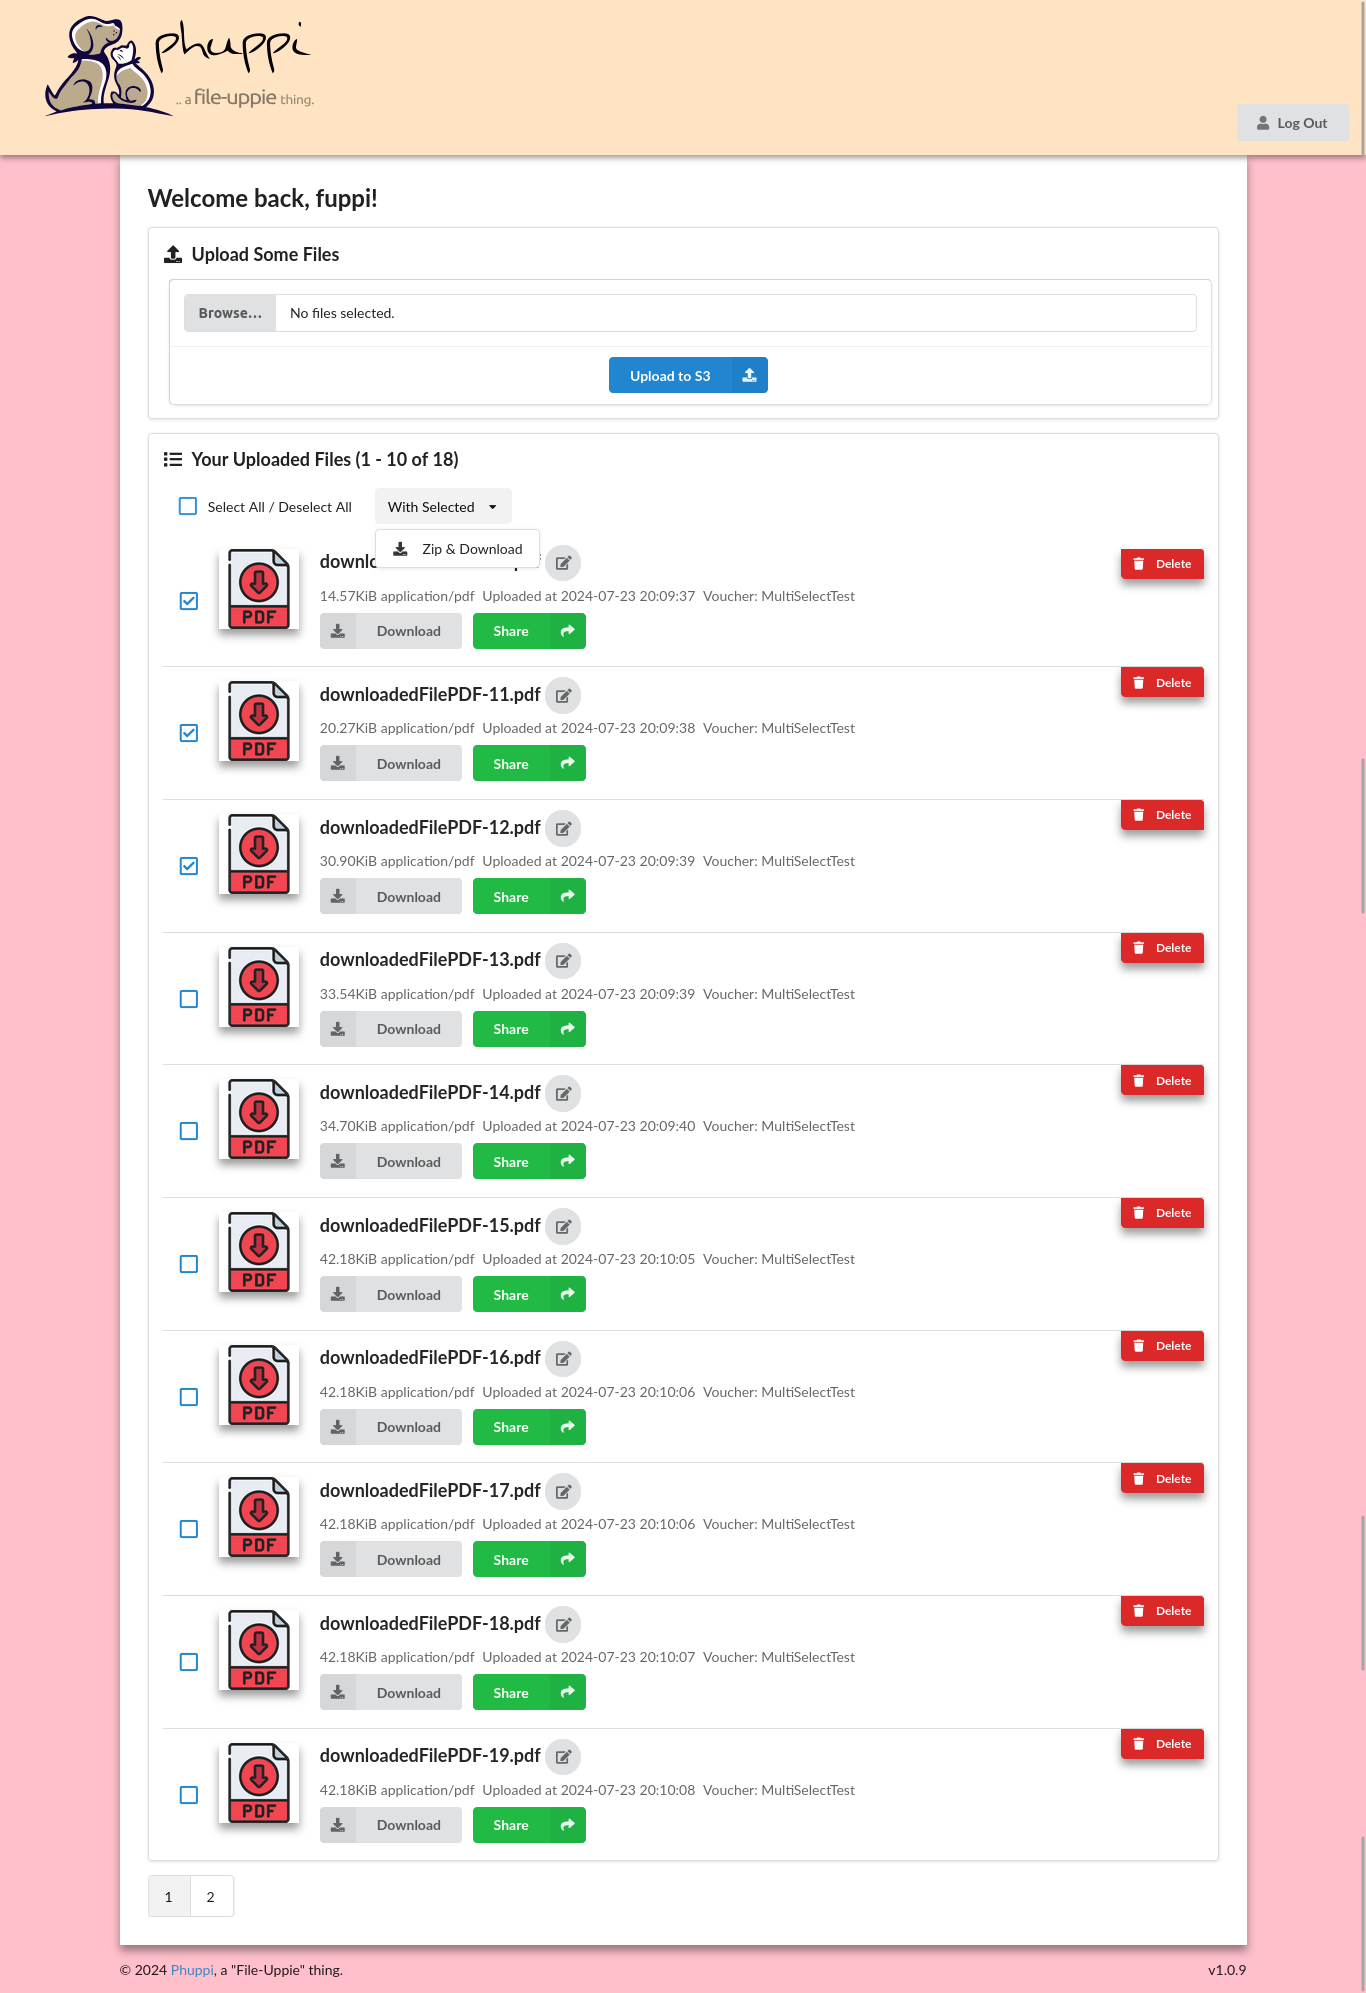
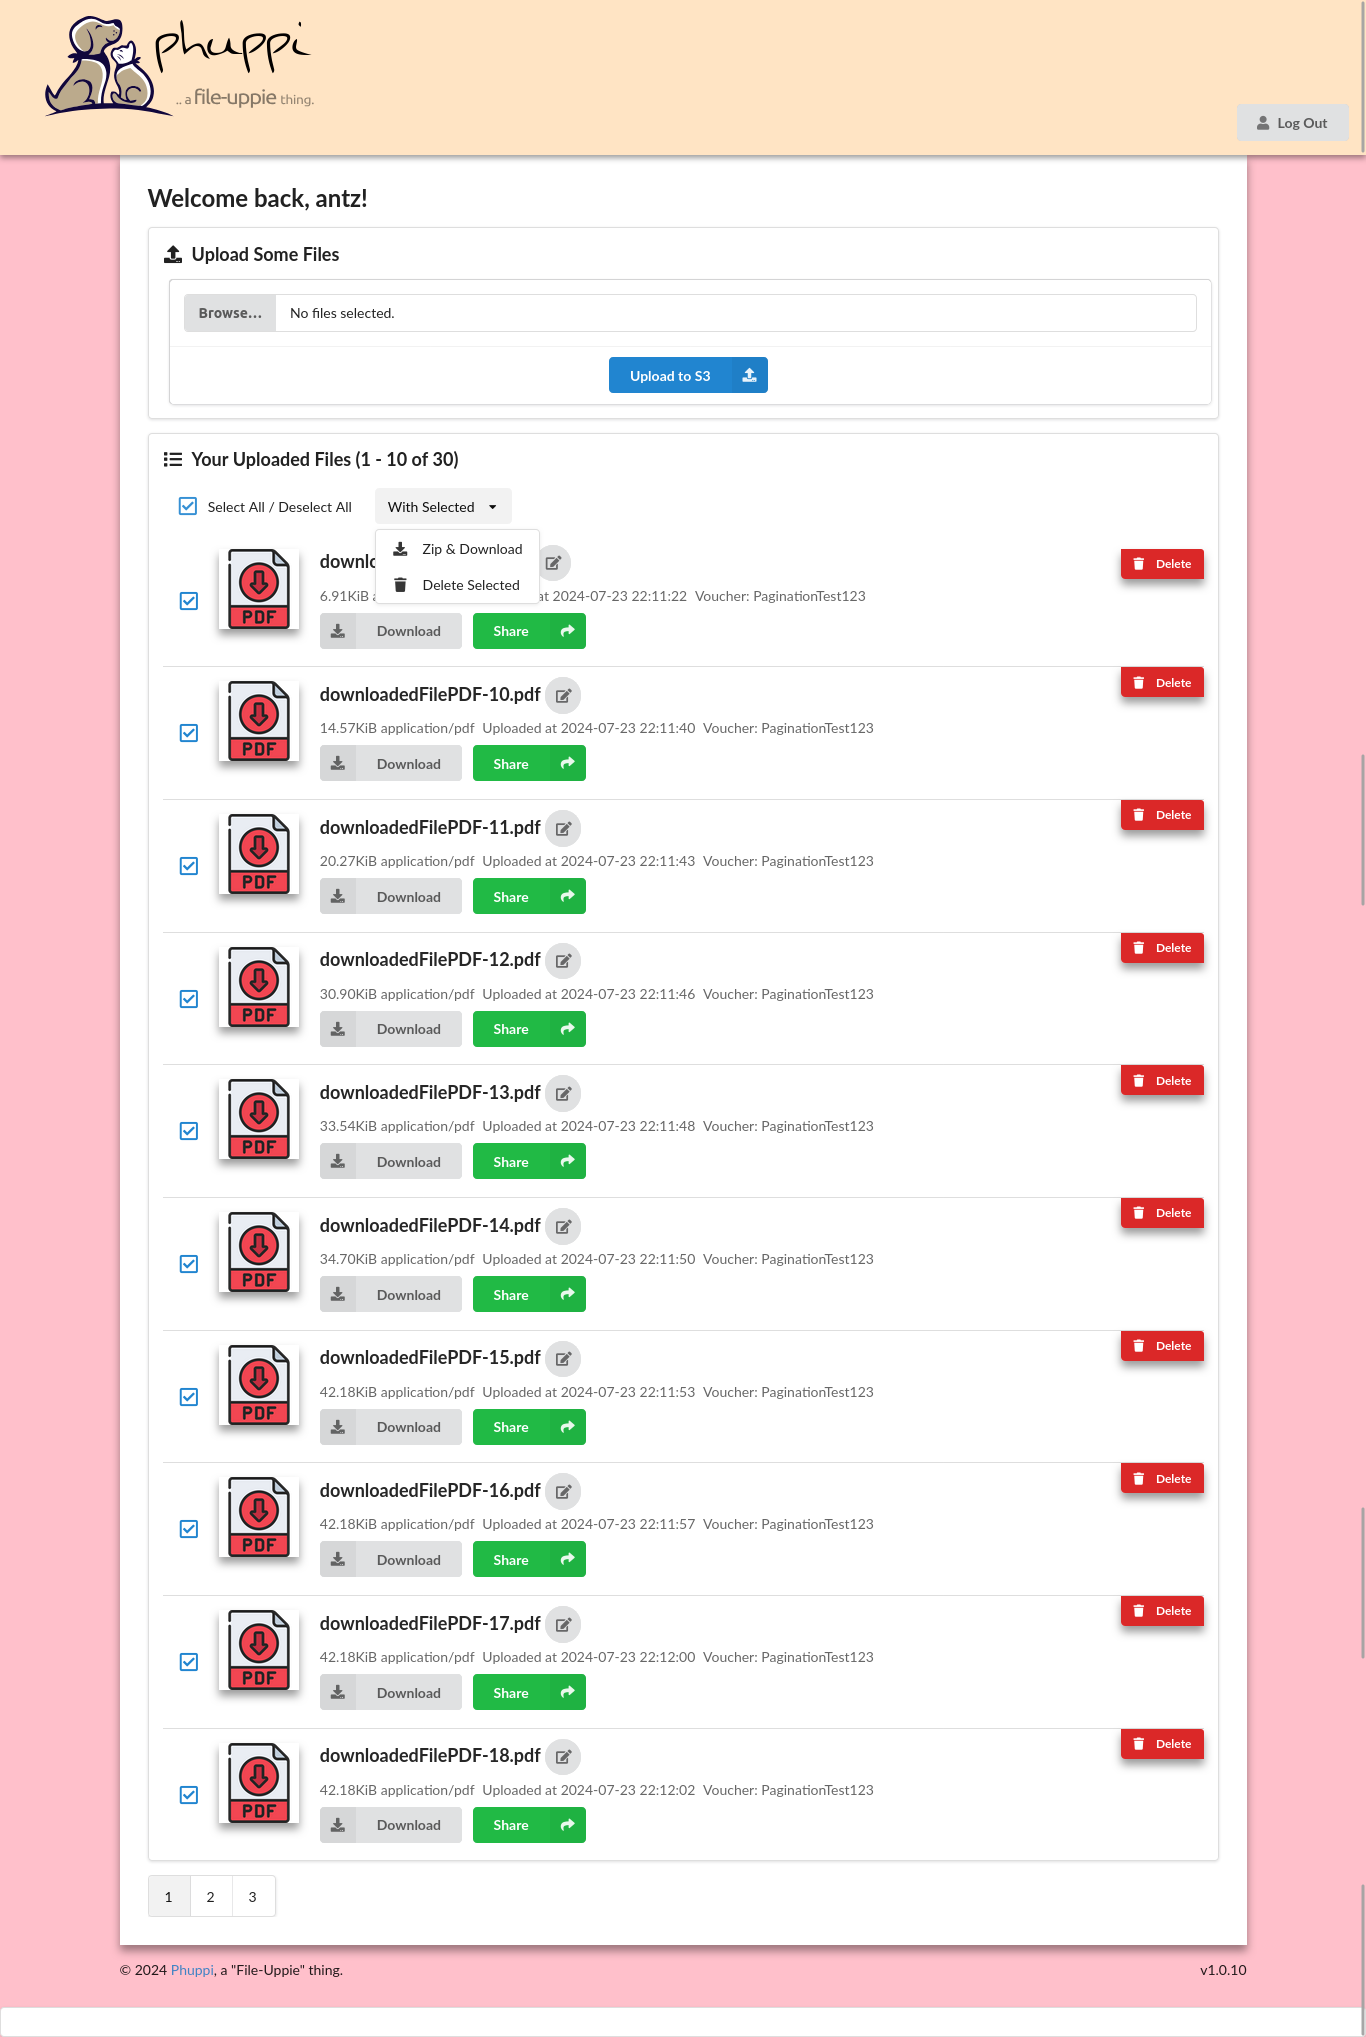
feat: ability to delete multiple files
- add a new mulit-select action to delete the selected files
- show a full-page dimmer and loading icon while the action is being processed

diff --git a/html/assets/js/fuppi.js b/html/assets/js/fuppi.js
@@ -28,34 +28,67 @@ $(() => {
     $('.multi-select-all').click((event) => {
         let container = event.currentTarget;
         let itemSelector = $(container).data('multi-select-item-selector') ?? '.multi-select-item';
-        if($('i', container).hasClass('check')){
+        if ($('i', container).hasClass('check')) {
             $('i', container).removeClass('check');
             $('i', itemSelector).removeClass('check');
-        }else{
+        } else {
             $('i', container).addClass('check');
             $('i', itemSelector).addClass('check');
         }
     });
     $('.multi-select-item').click((event) => {
         let container = event.currentTarget;
-        if($('i', container).hasClass('check')){
+        if ($('i', container).hasClass('check')) {
             $('i', container).removeClass('check');
-        }else{
+        } else {
             $('i', container).addClass('check');
         }
     });
-    $('.multi-select-action').click((event) => {
+    $('.multi-select-action').click(async (event) => {
         let action = event.currentTarget;
         let itemSelector = $(action).data('multi-select-item-selector') ?? '.multi-select-item';
-        switch($(action).data('multi-select-action')){
+        let selectedIds = $(itemSelector).get().filter((item) => $('i', item).hasClass('check')).map((item) => $(item).data('multi-select-item-id'));
+
+        switch ($(action).data('multi-select-action')) {
             case 'download':
-                let downloadIds = $(itemSelector).get().filter((item) => $('i', item).hasClass('check')).map((item) => $(item).data('multi-select-item-id'));
-                window.location = 'file.php?id='+JSON.stringify(downloadIds);
+                $('.ui.page.dimmer').dimmer('show');
+                window.location = 'file.php?id=' + JSON.stringify(selectedIds);
                 setTimeout(() => {
                     $(action).removeClass('active');
                     $(action).removeClass('selected');
                 });
-            break;
+                setTimeout(() => {
+                    $('.ui.page.dimmer').dimmer('hide');
+                }, 3000);
+                break;
+            case 'delete':
+                if (confirm('Are you sure you want to delete the ' + selectedIds.length + ' selected? This action cannot be undone!')) {
+                    $('.ui.page.dimmer').dimmer('show');
+                    
+                    let formData = new FormData();
+                    formData.append('_method', 'delete');
+                    formData.append('_ajax', 1);
+                    formData.append('fileIds', JSON.stringify(selectedIds));
+
+                    setTimeout(() => {
+                        $(action).removeClass('active');
+                        $(action).removeClass('selected');
+                    });
+                    
+                    await axios.post($(action).data('multi-select-action-url'), formData)
+                        .then(async (response) => {
+                            $('.ui.page.dimmer').dimmer('hide');
+                            switch ($(action).data('multi-select-action-callback')) {
+                                case 'refresh':
+                                    window.location = window.location;
+                                    break;
+                            }
+                        }).catch((error) => {
+                            $('.ui.page.dimmer').dimmer('hide');
+                            alert(error);
+                        });
+                }
+                break;
         }
     });
 });

diff --git a/html/index.php b/html/index.php
@@ -29,31 +29,68 @@ if (!empty($_GET['userId'])) {
 if (!empty($_POST)) {
     switch ($_POST['_method'] ?? 'post') {
         case 'delete':
-            if ($user->hasPermission(UserPermission::UPLOADEDFILES_DELETE)) {
-                $fileId = $_POST['fileId'] ?? 0;
-                $uploadedFile = UploadedFile::getOne($fileId);
-                $fileUser = $uploadedFile->getUser();
-                UploadedFile::deleteOne($fileId);
-                if (file_exists($config->uploaded_files_path . DIRECTORY_SEPARATOR . $fileUser->username . DIRECTORY_SEPARATOR . $uploadedFile->filename)) {
-                    unlink($config->uploaded_files_path . DIRECTORY_SEPARATOR . $fileUser->username . DIRECTORY_SEPARATOR . $uploadedFile->filename);
-                }
-                $sdk = new Aws\Sdk([
-                    'region' => $config->getSetting('aws_s3_region'),
-                    'credentials' =>  [
-                        'key'    => $config->getSetting('aws_s3_access_key'),
-                        'secret' => $config->getSetting('aws_s3_secret')
-                    ]
-                ]);
-                $s3Client = $sdk->createS3();
-                try {
-                    $s3Client->deleteObject([
-                        'Bucket' => $config->getSetting('aws_s3_bucket'),
-                        'Key' => $config->s3_uploaded_files_prefix . '/' . $fileUser->username . '/' . $uploadedFile->filename
+            if (_can_delete_files()) {
+                $apiResponse = new ApiResponse();
+                foreach ((json_decode($_POST['fileIds']) ?? [($_POST['fileId'] ?? 0)]) as $fileId) {
+                    $uploadedFile = UploadedFile::getOne($fileId);
+                    $fileUser = $uploadedFile->getUser();
+                    if ($uploadedFile->user_id !== $profileUser->user_id) {
+                        if ($_POST['ajax']) {
+                            $apiResponse->throwException($uploadedFile->uploaded_file_id . ' does not belong to this user');
+                        }
+                        throw new Exception($uploadedFile->uploaded_file_id . ' does not belong to this user');
+                    } else {
+                        if ($app->getVoucher()) {
+                            if ($app->getVoucher()->voucher_id !== $uploadedFile->voucher_id) {
+                                if ($app->getVoucher()->hasPermission(VoucherPermission::UPLOADEDFILES_LIST_ALL)
+                                && $app->getVoucher()->hasPermission(VoucherPermission::UPLOADEDFILES_DELETE)) {
+                                    // permitted to delete all files of the user
+                                } else {
+                                    // not permitted to delete the file that was not uploaded by the voucher
+                                    if ($_POST['ajax']) {
+                                        $apiResponse->throwException($uploadedFile->uploaded_file_id . ' does not belong to this voucher');
+                                    }
+                                    throw new Exception($uploadedFile->uploaded_file_id . ' does not belong to this voucher');
+                                }
+                            }
+                        }
+                    }
+                    UploadedFile::deleteOne($fileId);
+
+                    if (file_exists($config->uploaded_files_path . DIRECTORY_SEPARATOR . $fileUser->username . DIRECTORY_SEPARATOR . $uploadedFile->filename)) {
+                        unlink($config->uploaded_files_path . DIRECTORY_SEPARATOR . $fileUser->username . DIRECTORY_SEPARATOR . $uploadedFile->filename);
+                    }
+
+                    $sdk = new Aws\Sdk([
+                        'region' => $config->getSetting('aws_s3_region'),
+                        'credentials' =>  [
+                            'key'    => $config->getSetting('aws_s3_access_key'),
+                            'secret' => $config->getSetting('aws_s3_secret')
+                        ]
                     ]);
-                } catch (\Exception $e) {
+
+                    $s3Client = $sdk->createS3();
+
+                    try {
+                        $s3Client->deleteObject([
+                            'Bucket' => $config->getSetting('aws_s3_bucket'),
+                            'Key' => $config->s3_uploaded_files_prefix . '/' . $fileUser->username . '/' . $uploadedFile->filename
+                        ]);
+                    } catch (\Exception $e) {
+                        if ($_POST['ajax']) {
+                            $apiResponse->throwException($e->getMessage());
+                        }
+                    }
                 }
             }
-            redirect($_SERVER['REQUEST_URI']);
+
+            if ($_POST['ajax']) {
+                $apiResponse->data =$_POST['fileIds'];
+                $apiResponse->sendResponse();
+            } else {
+                redirect($_SERVER['REQUEST_URI']);
+            }
+
             break;
 
         case 'post':
@@ -277,6 +314,7 @@ $resultSetEnd = ((($pageNum-1) * $pageSize) + count($uploadedFiles));
 
 ?>
 
+
 <h2>Welcome back, <?= $profileUser->username ?>!</h2>
 
 <?php if ($user->hasPermission(UserPermission::UPLOADEDFILES_PUT)) { ?>
@@ -408,10 +446,18 @@ $resultSetEnd = ((($pageNum-1) * $pageSize) + count($uploadedFiles));
                         <label>With Selected</label>
                         <i class="dropdown icon"></i>
                         <div class="menu">
-                            <div class="item multi-select-action" data-multi-select-action="download">
+                        <div class="item multi-select-action" data-multi-select-action="download">
                                 <i class="download icon"></i>        
                                 <label>Zip &amp; Download</label>
                             </div>
+                            <div class="item multi-select-action"
+                                data-multi-select-action-url="<?= $_SERVER['REQUEST_URI'] ?>"
+                                data-multi-select-action-callback="refresh"
+                                data-multi-select-action="delete">
+                                <i class="trash icon"></i>        
+                                <label>Delete Selected</label>
+                            </div>
+                            
                         </div>
                     </div>
                 <?php } ?>
@@ -423,7 +469,7 @@ $resultSetEnd = ((($pageNum-1) * $pageSize) + count($uploadedFiles));
 
                     <div class="ui item" style="position: relative">
 
-                        <?php if ($user->hasPermission(UserPermission::UPLOADEDFILES_DELETE)) { ?>
+                        <?php if (_can_delete_files()) { ?>
                             <button class="red ui top right attached round label raised clickable-confirm" style="z-index: 1;" data-confirm="Are you sure you want to delete this file?" data-action="(e) => document.getElementById('deleteUploadedFileForm<?= $uploadedFileIndex ?>').submit()">
                                 <i class="trash icon"></i> Delete
                             </button>
@@ -700,12 +746,12 @@ $resultSetEnd = ((($pageNum-1) * $pageSize) + count($uploadedFiles));
                         <div class="right ui grid middle aligned">
 
                             <div class="one wide column">
-
-                                <form id="deleteUploadedFileForm<?= $uploadedFileIndex ?>" method="post" action="<?= $_SERVER['REQUEST_URI'] ?>">
-                                    <input name="_method" type="hidden" value="delete" />
-                                    <input type="hidden" name="fileId" value="<?= $uploadedFile->uploaded_file_id ?>" />
-                                </form>
-
+                                <?php if (_can_delete_files()) { ?>
+                                    <form id="deleteUploadedFileForm<?= $uploadedFileIndex ?>" method="post" action="<?= $_SERVER['REQUEST_URI'] ?>">
+                                        <input name="_method" type="hidden" value="delete" />
+                                        <input type="hidden" name="fileId" value="<?= $uploadedFile->uploaded_file_id ?>" />
+                                    </form>
+                                <?php } ?>
                             </div>
 
                         </div>
@@ -748,6 +794,22 @@ function _get_meta_content(UploadedFile $uploadedFile)
     $meta = ob_get_contents();
     ob_end_clean();
     return $meta;
+}
+
+function _can_delete_files()
+{
+    $app = \Fuppi\App::getInstance();
+    $user = $app->getUser();
+
+    if ($voucher = $app->getVoucher()) {
+        if ($user->hasPermission(VoucherPermission::UPLOADEDFILES_DELETE)) {
+            return true;
+        }
+    } else {
+        return $user->hasPermission(UserPermission::UPLOADEDFILES_DELETE);
+    }
+
+    return false;
 }
 
 function _can_read_file(UploadedFile $uploadedFile)

diff --git a/html/src/templates/layout.php b/html/src/templates/layout.php
@@ -58,6 +58,15 @@
             <span class="column right aligned">v<?= fuppi_version() ?></span>
         </div>
     </footer>
+    <div class="ui segment">
+        <div class="ui page dimmer inverted">
+            <div class="content">
+                <h2 class="ui inverted icon header">
+                    <img class="ui image icon" style="width: 30%; height: 30%;" src="/assets/images/logo/phuppi/phuppi-logo.svg" />
+                </h2>
+            </div>
+        </div>
+    </div>
 </body>
 
 </html>

diff --git a/html/src/config.php b/html/src/config.php
@@ -1,7 +1,7 @@
 <?php
 
 $fuppiConfig = [
-    'fuppi_version' => '1.0.9',
+    'fuppi_version' => '1.0.10',
     'phpliteadmin_folder_name' => 'phpliteadmin',
     'sqlite3_file_path' => dirname(__DIR__) . DIRECTORY_SEPARATOR . 'data' . DIRECTORY_SEPARATOR . 'FUPPI_DB.sqlite3',
     'uploaded_files_path' => dirname(__DIR__) . DIRECTORY_SEPARATOR . 'data' . DIRECTORY_SEPARATOR . 'uploadedFiles',
